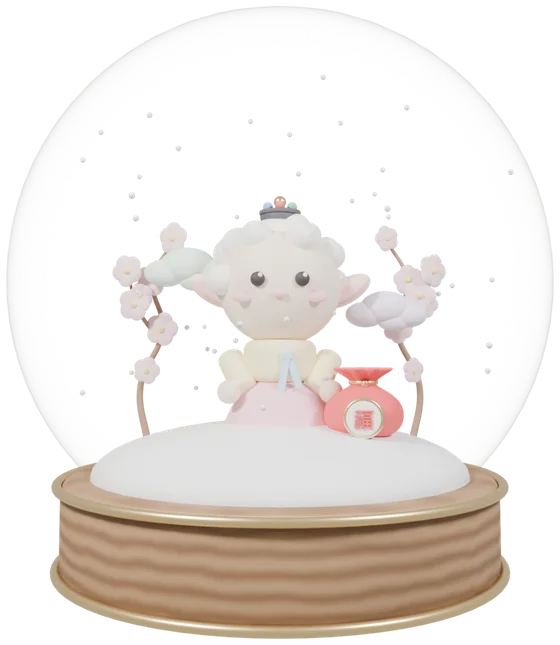
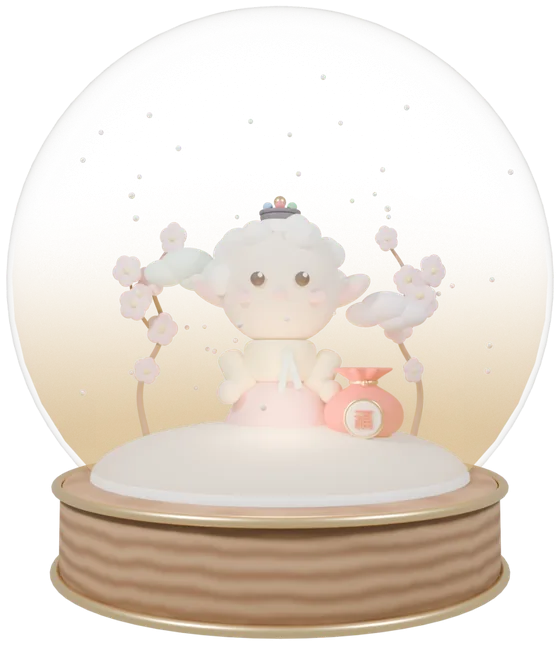
New Year globe: warm light rising from the floor
The snow globe now glows from below, as if its base were lit: an amber
veil inside the glass, strongest at the snow and fading towards the top,
with a warm up-light on the sheep and the pouch.

Changed region(s): [[0.0304, 0.4341, 0.9714, 0.7442]]

diff --git a/assets/main.js b/assets/main.js
@@ -759,7 +759,7 @@
       if (hero && !XMAS) {
         town = document.createElement('div');
         town.className = 'xmas-town globe'; town.setAttribute('aria-hidden', 'true');
-        town.innerHTML = '<img class="town-base" alt="" width="560" height="645" decoding="async" src="assets/img/newyear-globe.webp">';
+        town.innerHTML = '<img class="town-base" alt="" width="560" height="645" decoding="async" src="assets/img/newyear-globe.webp?v=2">';
         town.firstChild.addEventListener('load', () => { if (town) town.classList.add('in'); });
         hero.insertBefore(town, hero.querySelector('.wash'));
       } else if (hero) {

diff --git a/talk.html b/talk.html
@@ -170,7 +170,7 @@
       <a href="https://github.com/bakeyeon">GitHub</a>
     </span>
   </footer>
-  <script src="assets/main.js?v=30"></script>
+  <script src="assets/main.js?v=31"></script>
   <script>
     (() => {
       const el = document.getElementById('local-time');

diff --git a/certificates.html b/certificates.html
@@ -139,6 +139,6 @@
       <a href="https://github.com/bakeyeon">GitHub</a>
     </span>
   </footer>
-  <script src="assets/main.js?v=30"></script>
+  <script src="assets/main.js?v=31"></script>
 </body>
 </html>

diff --git a/experience.html b/experience.html
@@ -170,6 +170,6 @@
       <a href="https://github.com/bakeyeon">GitHub</a>
     </span>
   </footer>
-  <script src="assets/main.js?v=30"></script>
+  <script src="assets/main.js?v=31"></script>
 </body>
 </html>

diff --git a/from-curiosity-to-proposal.html b/from-curiosity-to-proposal.html
@@ -218,6 +218,6 @@
       <a href="https://github.com/bakeyeon">GitHub</a>
     </span>
   </footer>
-  <script src="assets/main.js?v=30"></script>
+  <script src="assets/main.js?v=31"></script>
 </body>
 </html>

diff --git a/research.html b/research.html
@@ -265,6 +265,6 @@
       <a href="https://github.com/bakeyeon">GitHub</a>
     </span>
   </footer>
-  <script src="assets/main.js?v=30"></script>
+  <script src="assets/main.js?v=31"></script>
 </body>
 </html>

diff --git a/education.html b/education.html
@@ -79,6 +79,6 @@
       <a href="https://github.com/bakeyeon">GitHub</a>
     </span>
   </footer>
-  <script src="assets/main.js?v=30"></script>
+  <script src="assets/main.js?v=31"></script>
 </body>
 </html>

diff --git a/index.html b/index.html
@@ -113,6 +113,6 @@
     </span>
   </footer>
   <script src="assets/news.js?v=6"></script>
-  <script src="assets/main.js?v=30"></script>
+  <script src="assets/main.js?v=31"></script>
 </body>
 </html>

diff --git a/news.html b/news.html
@@ -50,6 +50,6 @@
     </span>
   </footer>
   <script src="assets/news.js?v=6"></script>
-  <script src="assets/main.js?v=30"></script>
+  <script src="assets/main.js?v=31"></script>
 </body>
 </html>
